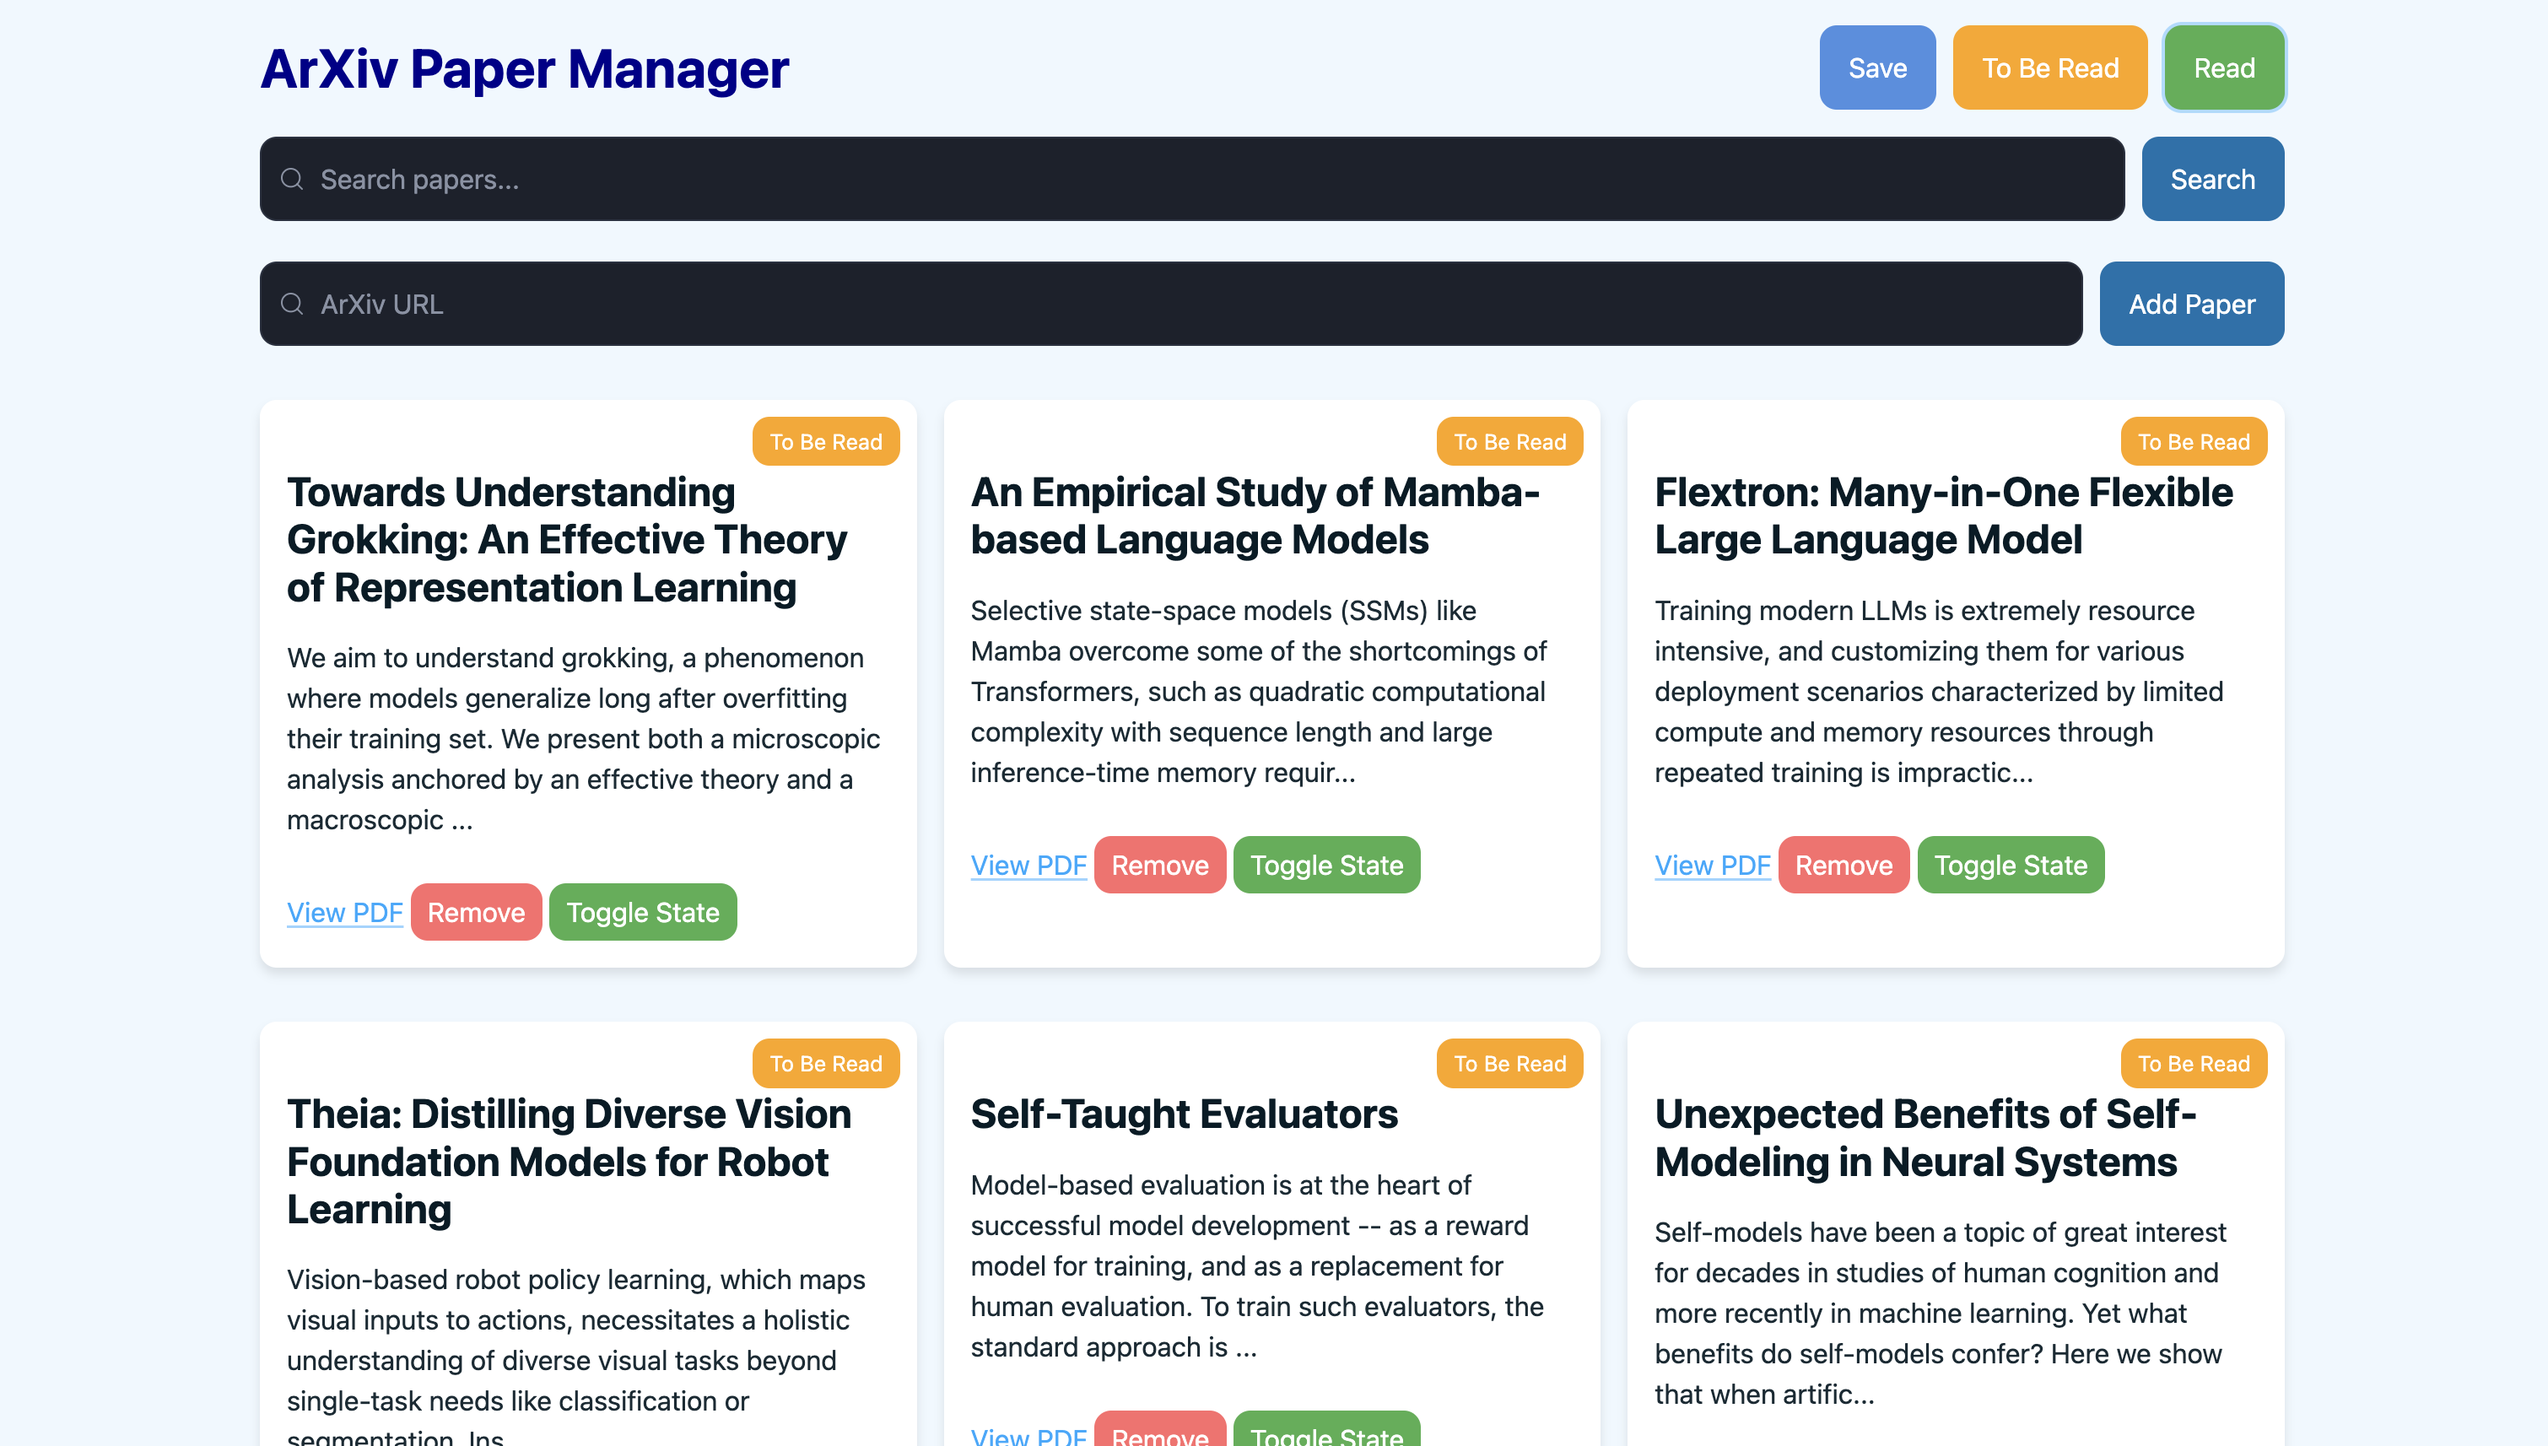
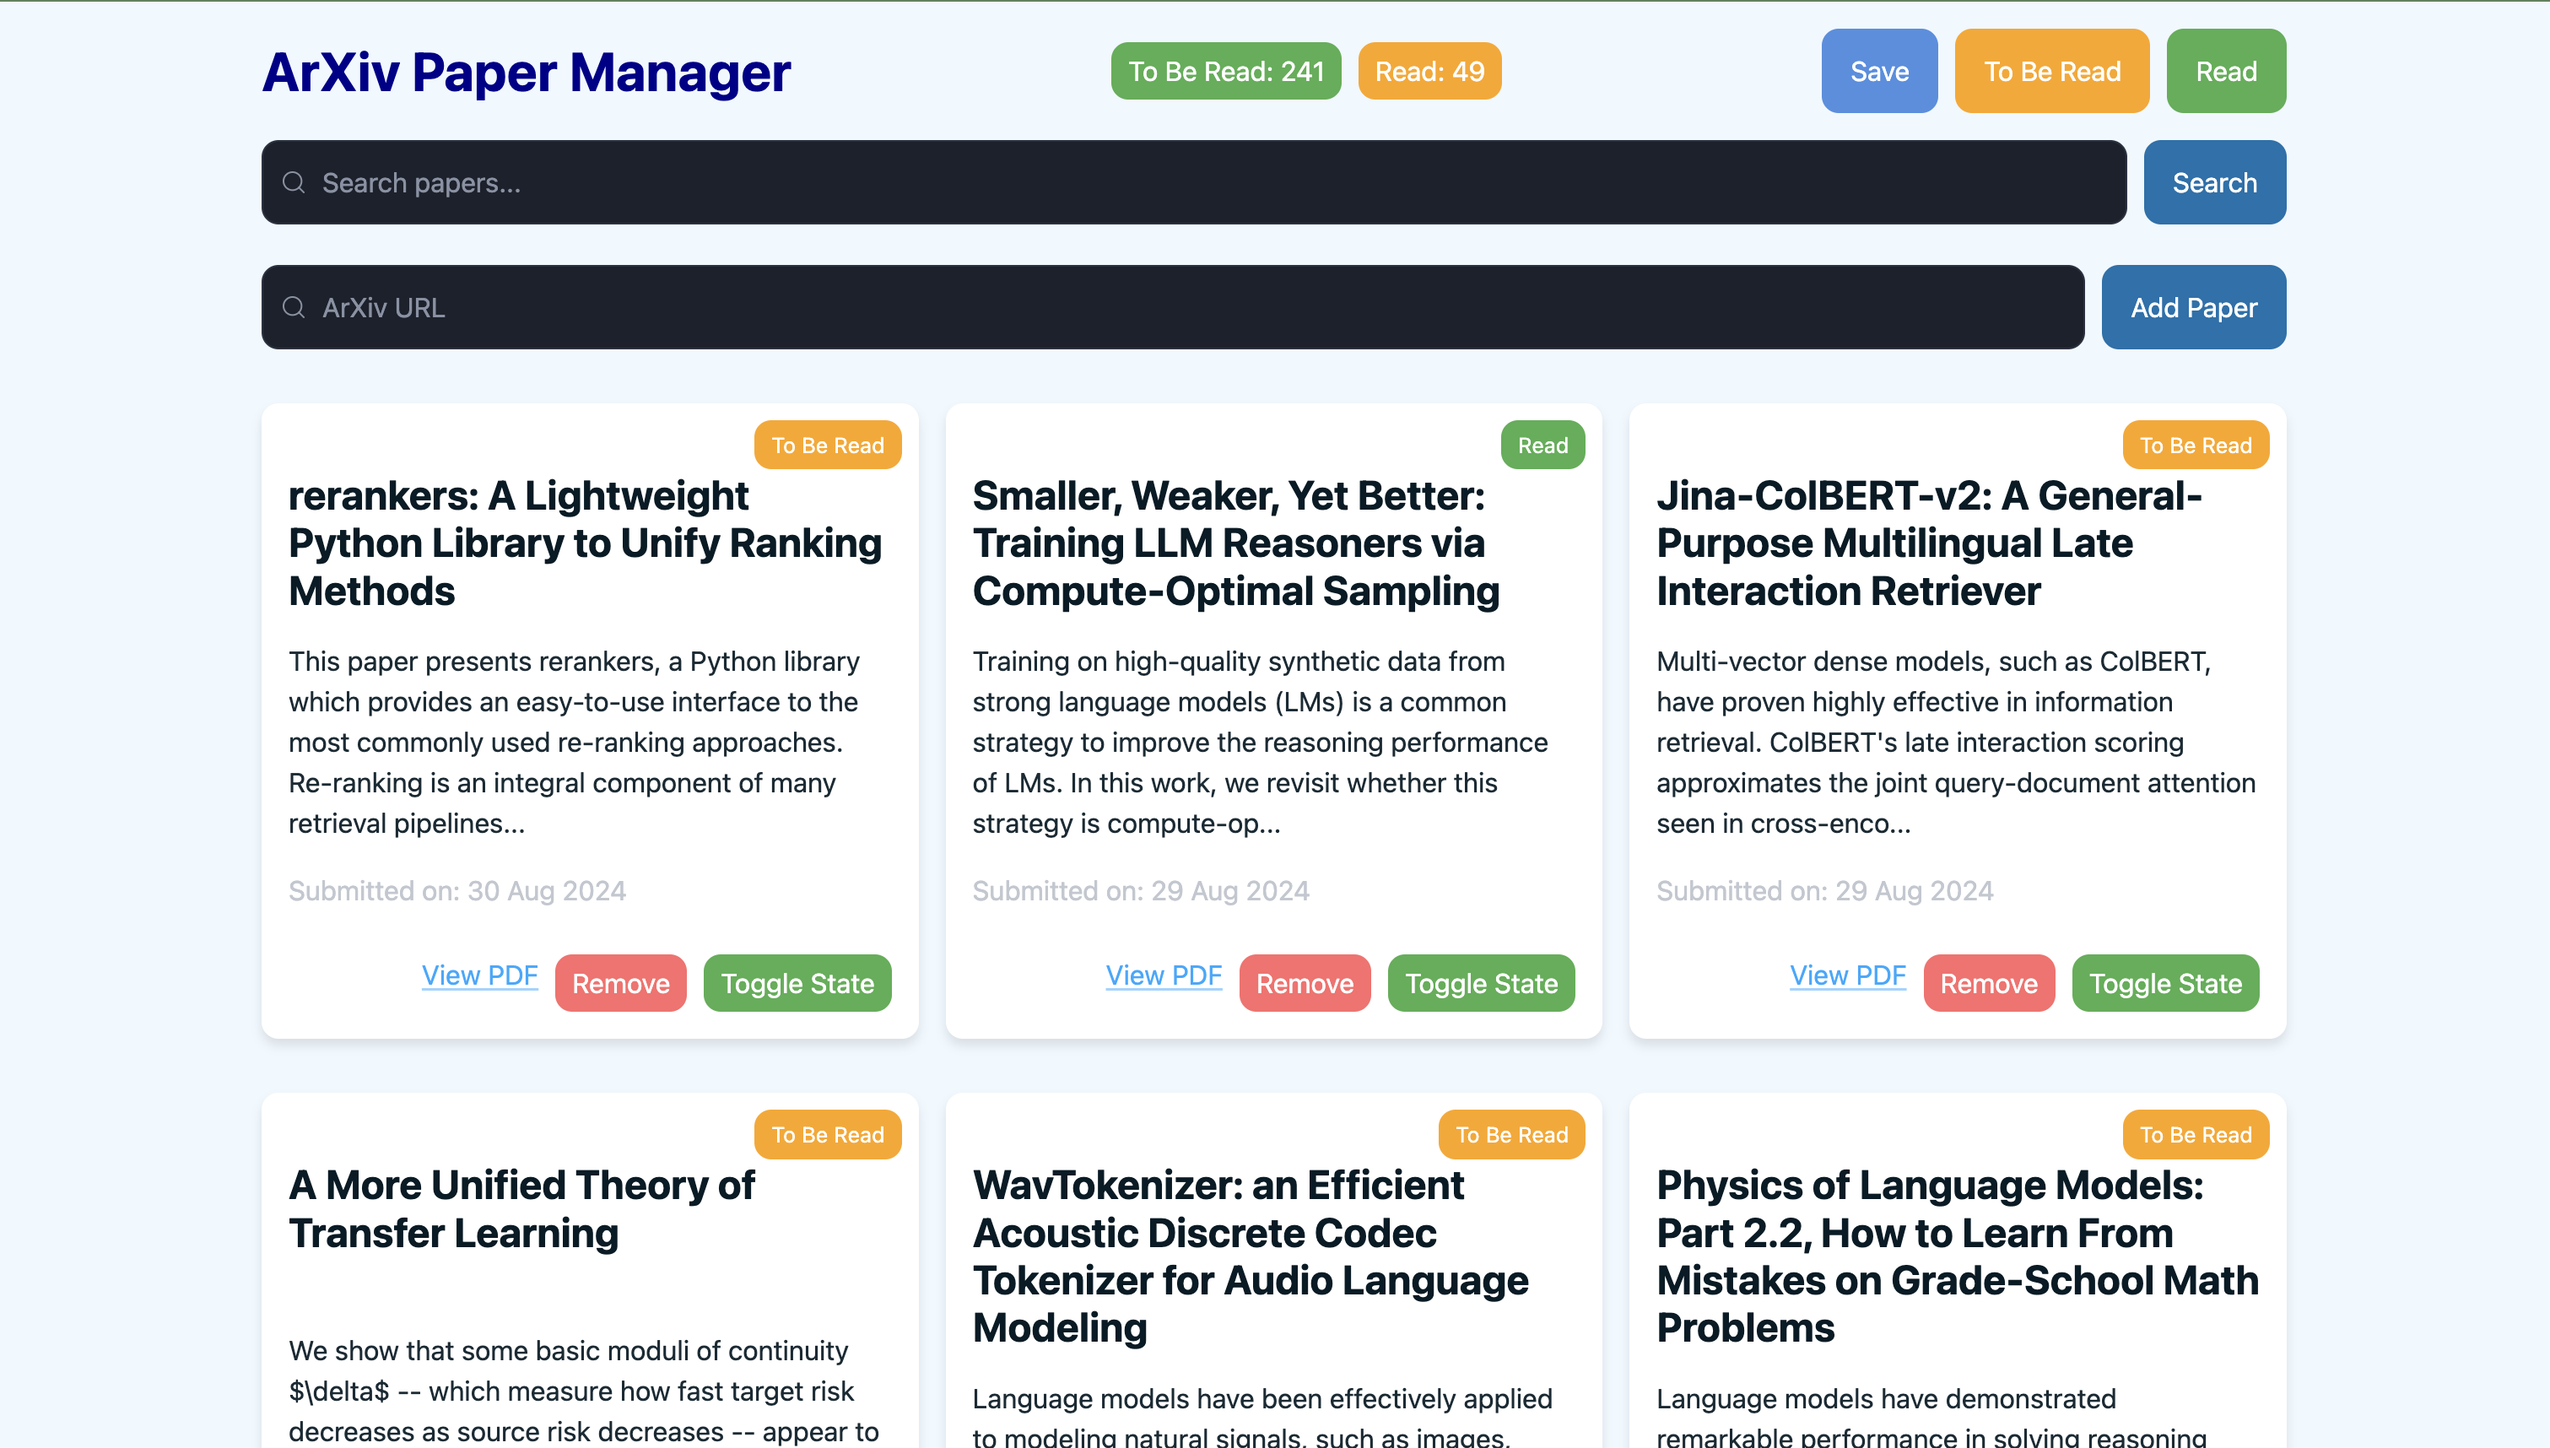
feat: Updated README and gitignore

diff --git a/README.md b/README.md
@@ -11,6 +11,8 @@ This is a simple tool to manage arxiv papers, which I needed because I have over
 - Mark papers as read
 - Delete papers
 - Filter papers by read status (the buttons don't work as I wanted them to visually, but functionality is there: click on a button to filter, click again to reset the filter)
+- Papers are ordered by submission date, latest first
+- Paper counts are displayed in the header
 
 ## Installation and Usage
 
@@ -19,7 +21,7 @@ This is a simple tool to manage arxiv papers, which I needed because I have over
 ```bash
 make install
 ```
-3. Load data from `arxiv_papers.json` (optional).
+3. Load data from `arxiv_papers.json` (optional, if you have saved by using the "Save" button before).
 ```bash
 make load_papers
 ```
